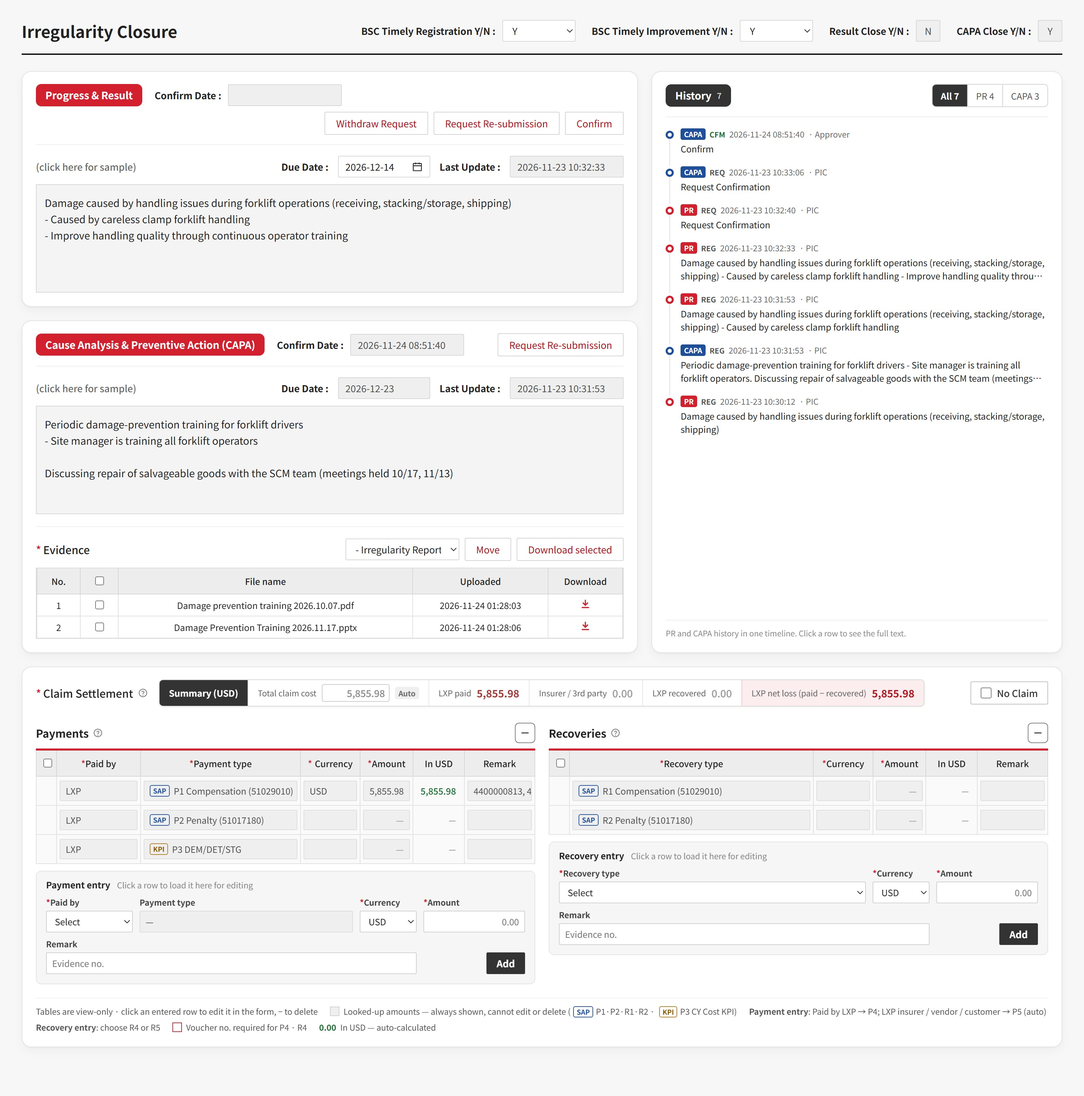
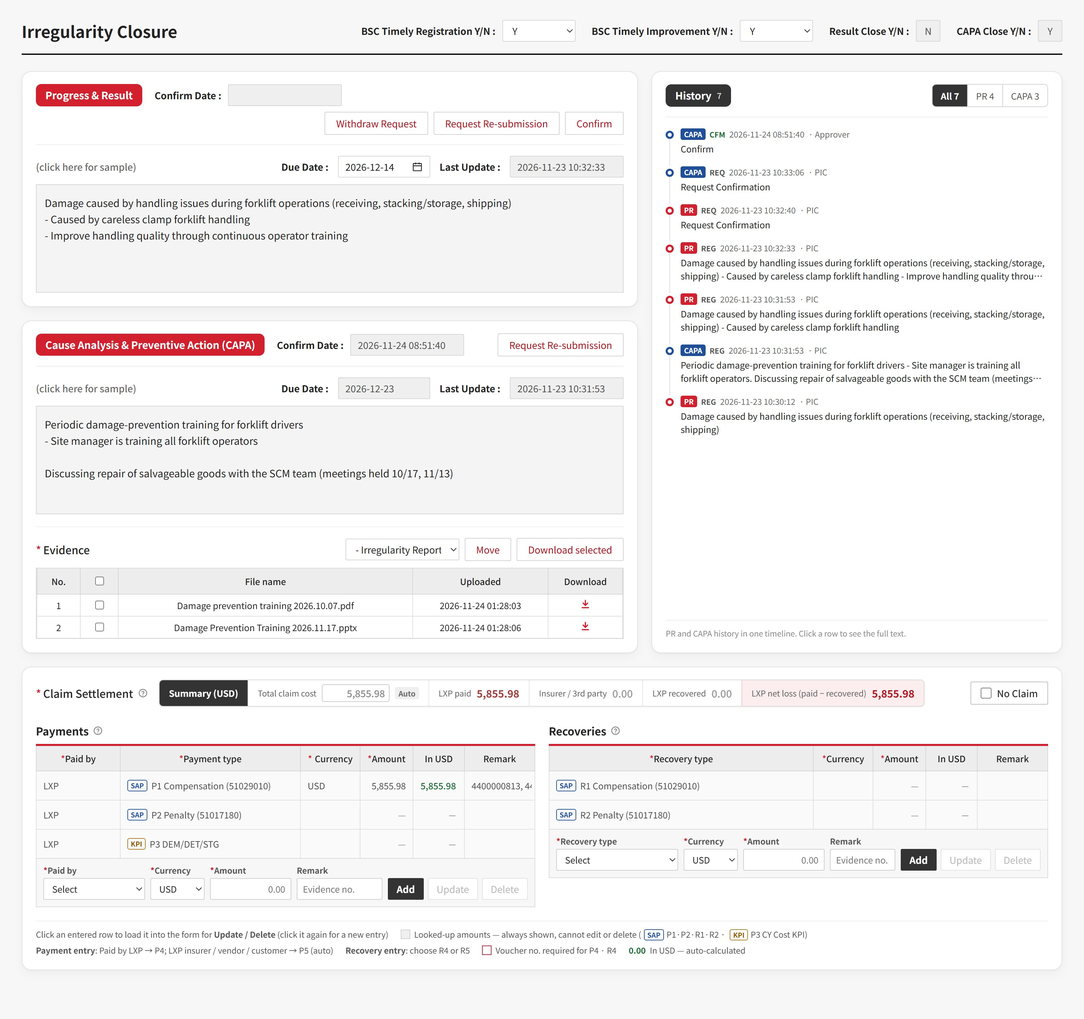
QMS sidebar mockup: one-line entry form, plain grid, select row to update/delete

diff --git a/share/qms-claim-closure-sidebar.html b/share/qms-claim-closure-sidebar.html
@@ -124,34 +124,35 @@ a{color:#B3121F}a:hover{color:#7E0C16}
 .ti.open .tx{display:block}
 .ti[hidden]{display:none}
 .sidenote{margin:10px 0 0;padding-top:10px;border-top:1px solid #EEEEEE;font-size:11.5px;color:#8A8A8A}
-.cform{margin-top:10px;background:#F6F6F6;border:1px solid #E3E3E3;border-radius:8px;padding:10px 14px 14px}
-.cf-h{display:flex;flex-wrap:wrap;align-items:baseline;gap:4px 10px;font-size:13px;margin-bottom:8px;color:#222}
-.cf-note{font-size:12px;color:#8A8A8A}.cf-mode{font-size:12px;color:#1F4E9A;font-weight:700}
-.cf-g{display:grid;gap:8px 10px;align-items:end}
-.cf-g.pay{grid-template-columns:128px minmax(0,1fr) 84px 150px}
-.cf-g.rec{grid-template-columns:minmax(0,1fr) 84px 150px}
-.cf{display:flex;flex-direction:column;gap:4px;min-width:0;font-size:12px;font-weight:700;color:#444}
+.csw .grid .rocell{border:0;background:none;height:28px;padding:0 6px}
+.cform{margin-top:-1px;background:#F7F7F7;border:1px solid #DADADA;padding:8px 10px 10px}
+.cf-g{display:grid;gap:6px 8px;align-items:end}
+.cf-g.pay{grid-template-columns:150px 80px 120px minmax(90px,1fr) auto}
+.cf-g.rec{grid-template-columns:180px 80px 120px minmax(90px,1fr) auto}
+.cf{display:flex;flex-direction:column;gap:3px;min-width:0;font-size:12px;font-weight:700;color:#555}
 .cf select,.cf input{height:32px;width:100%;border:1px solid #CFCFCF;border-radius:2px;background:#fff;font:inherit;font-size:13px;font-weight:400;color:#222;padding:0 8px;box-sizing:border-box}
 .cf input[data-f="amt"]{text-align:right;font-variant-numeric:tabular-nums}
-.cf .rocell{height:32px;font-weight:400}
 .cf input.need{border-color:#D3202F}
 .cf .bad{outline:2px solid #D3202F;outline-offset:-1px}
-.cf.wide{grid-column:1 / -2}
-.cf-b{display:flex;justify-content:flex-end;gap:6px}
-.cf-b .btn{height:32px;padding:0 14px}
+.cf-b{display:flex;gap:6px}
+.cf-b .btn{height:32px;padding:0 12px}
+.cf-b .btn:disabled{color:#BBBBBB;border-color:#E2E2E2;background:#fff;cursor:default}
 .btn.dark{background:#333;border-color:#333;color:#fff;font-weight:700}
-.cf-err{margin:8px 0 0;font-size:12px;color:#B3121F}
-.uc{height:30px;display:flex;align-items:center;padding:0 8px;font-size:13px;overflow:hidden;white-space:nowrap;text-overflow:ellipsis}
+.cf-b .btn.dark:disabled{background:#C8C8C8;border-color:#C8C8C8;color:#fff}
+.cf-err{margin:6px 0 0;font-size:12px;color:#B3121F}
+.uc{height:28px;display:flex;align-items:center;padding:0 6px;font-size:13px;overflow:hidden;white-space:nowrap;text-overflow:ellipsis}
 .uc.num{justify-content:flex-end;font-variant-numeric:tabular-nums}
-.grid tr.ur{cursor:pointer}.grid tr.ur:hover td{background:#FFF7F7}.grid tr.ur.sel td{background:#FDECEE}
-@media (max-width:640px){.cf-g.pay,.cf-g.rec{grid-template-columns:minmax(0,1fr) minmax(0,1fr)}.cf.wide,.cf-b{grid-column:1 / -1}}
+.grid tr.ur{cursor:pointer}.grid tr.ur:hover td{background:#FFF7F7}
+.grid tr.ur.sel td{background:#FDECEE}.grid tr.ur.sel td:first-child{box-shadow:inset 3px 0 0 #D3202F}
+.grid tr.ur:focus-visible{outline:2px solid #1F4E9A;outline-offset:-2px}
+@media (max-width:640px){.cf-g.pay,.cf-g.rec{grid-template-columns:minmax(0,1fr) minmax(0,1fr)}.cf-b{grid-column:1 / -1;justify-content:flex-end}}
 @media (max-width:1100px){.sbl,.flow.r64 .sbl{grid-template-columns:minmax(0,1fr)}.tl{flex:none;height:auto;min-height:0;max-height:420px}}
 
 </style>
 </head>
 <body>
 <div class="lab-bar"><b>QMS 사고 비용 정산 설계안</b><span>배치 검토용 목업 · 이력 필터만 동작</span><a href="/share/qms-claim">데이터 설계</a><a href="/share/qms-claim-screens">입력 화면 시안</a><a href="/share/qms-claim-closure">Closure 화면 개선안</a><a href="/share/qms-claim-closure-layout">좌우 배치안</a><a href="/share/qms-claim-closure-sidebar" aria-current="page">이력 사이드바안</a><a href="/share/qms-claim-closure-options">배치 제안</a><a href="#en" lang="en">English</a></div>
-<div class="part"><h2 class="big">이력 사이드바안 — 배치 제안 C</h2><p><b>사이드바 레이아웃</b>: 왼쪽 본문은 PR → CAPA → 이행 증빙, 오른쪽 사이드바는 PR · CAPA 이력을 시간순으로 모은 통합 이력 (PR / CAPA 필터). 구역마다 둥근 상자로 나누고, 본문 : 이력 폭은 7 : 3 (6 : 4로 바꿔 볼 수 있음). 이력 상자는 본문 높이에 맞춰 늘어나고 넘치면 안에서 스크롤. 입력 칸과 이력이 나란히 있지 않으니 높이를 맞출 필요가 없고, 이행 증빙이 늘어도 구조가 깨지지 않습니다. <b>Claim Settlement는 전체 폭</b>으로 빼서 지불·회수 표를 한 줄에 놓고, 맨 아래(기본)와 맨 위 중 골라 볼 수 있습니다. <b>지불·회수 표는 조회 전용</b>이고, 표 아래 입력폼(기존 Actual Loss Cost처럼 칸 입력, USD 칸 없음)으로 추가합니다. 입력한 행을 누르면 폼으로 불러와 수정, − 로 삭제. 요약 금액은 예시 환율로 다시 계산됩니다.</p>
+<div class="part"><h2 class="big">이력 사이드바안 — 배치 제안 C</h2><p><b>사이드바 레이아웃</b>: 왼쪽 본문은 PR → CAPA → 이행 증빙, 오른쪽 사이드바는 PR · CAPA 이력을 시간순으로 모은 통합 이력 (PR / CAPA 필터). 구역마다 둥근 상자로 나누고, 본문 : 이력 폭은 7 : 3 (6 : 4로 바꿔 볼 수 있음). 이력 상자는 본문 높이에 맞춰 늘어나고 넘치면 안에서 스크롤. 입력 칸과 이력이 나란히 있지 않으니 높이를 맞출 필요가 없고, 이행 증빙이 늘어도 구조가 깨지지 않습니다. <b>Claim Settlement는 전체 폭</b>으로 빼서 지불·회수 표를 한 줄에 놓고, 맨 아래(기본)와 맨 위 중 골라 볼 수 있습니다. <b>지불·회수 표는 조회 전용</b>(USD 환산은 표에서 자동 계산)이고, 표 바로 아래 한 줄 입력폼으로 추가합니다. 입력한 행을 누르면 폼에 불러오고 수정·삭제 버튼이 켜집니다 (같은 행을 다시 누르면 신규 입력). 요약 금액은 예시 환율로 다시 계산됩니다.</p>
 <div class="pos" role="group" aria-label="본문과 이력 비율" data-cls="r64"><span>본문 : 이력</span><span class="segb"><button type="button" data-on="0" aria-pressed="true">7 : 3</button><button type="button" data-on="1" aria-pressed="false">6 : 4</button></span></div><div class="pos" role="group" aria-label="Claim Settlement 위치" data-cls="cs-top"><span>Claim Settlement 위치</span><span class="segb"><button type="button" data-pos="bottom" data-on="0" aria-pressed="true">맨 아래</button><button type="button" data-pos="top" data-on="1" aria-pressed="false">맨 위</button></span></div>
 <div class="dl"><a href="/share/files/qms-claim-closure-sidebar.jpg" download><svg width="14" height="14" viewBox="0 0 24 24" fill="none" stroke="currentColor" stroke-width="2" aria-hidden="true"><path d="M12 3v12m0 0-5-5m5 5 5-5M4 19h16"/></svg>JPG (맨 아래)</a><a href="/share/files/qms-claim-closure-sidebar-top.jpg" download><svg width="14" height="14" viewBox="0 0 24 24" fill="none" stroke="currentColor" stroke-width="2" aria-hidden="true"><path d="M12 3v12m0 0-5-5m5 5 5-5M4 19h16"/></svg>JPG (맨 위)</a><a href="/share/files/qms-claim-closure-sidebar-64.jpg" download><svg width="14" height="14" viewBox="0 0 24 24" fill="none" stroke="currentColor" stroke-width="2" aria-hidden="true"><path d="M12 3v12m0 0-5-5m5 5 5-5M4 19h16"/></svg>JPG (6 : 4)</a></div></div>
 <div style="box-sizing: border-box; width: 100%; max-width: 1600px; margin: 0 auto; padding: 28px 32px 56px; font-family: 'Noto Sans KR', 'Malgun Gothic', sans-serif; color: #222; background: #F7F7F7;">
@@ -256,14 +257,12 @@ SCM팀 통한 수리 가능 제품 양품화 협의 (10/17, 11/13 협의 진행)
 </div>
 <div style="display: flex; align-items: center; gap: 6px; flex: none;">
 
-<button class="ibtn" type="button" aria-label="선택한 지불 행 삭제"><svg width="16" height="16" viewBox="0 0 24 24" fill="none" stroke="currentColor" stroke-width="2.4" stroke-linecap="round" aria-hidden="true"><path d="M5 12h14"></path></svg></button>
 </div>
 </div>
 <div style="overflow-x: auto;">
 <table class="grid" data-k="pay">
-<colgroup><col style="width: 30px;"><col style="width: 110px;"><col><col style="width: 80px;"><col style="width: 84px;"><col style="width: 84px;"><col style="width: 112px;"></colgroup>
+<colgroup><col style="width: 110px;"><col><col style="width: 80px;"><col style="width: 84px;"><col style="width: 84px;"><col style="width: 112px;"></colgroup>
 <thead><tr>
-<th><input type="checkbox" aria-label="지불 행 전체 선택"></th>
 <th><span class="req">*</span>지불주체</th>
 <th><span class="req">*</span>지불방법</th>
 <th><span style="display: inline-flex; align-items: center; gap: 4px;"><span class="req">*</span>Currency</span></th>
@@ -273,7 +272,6 @@ SCM팀 통한 수리 가능 제품 양품화 협의 (10/17, 11/13 협의 진행)
 </tr></thead>
 <tbody>
 <tr class="fx">
-<td></td>
 <td><div class="rocell">당사</div></td>
 <td><div class="rocell"><span class="chip">SAP</span>P1 손해배상금 지급 (51029010)</div></td>
 <td><div class="rocell">USD</div></td>
@@ -282,7 +280,6 @@ SCM팀 통한 수리 가능 제품 양품화 협의 (10/17, 11/13 협의 진행)
 <td><div class="rocell">4400000813, 4400000847</div></td>
 </tr>
 <tr class="fx">
-<td></td>
 <td><div class="rocell">당사</div></td>
 <td><div class="rocell"><span class="chip">SAP</span>P2 과태료 지급 (51017180)</div></td>
 <td><div class="rocell"></div></td>
@@ -291,7 +288,6 @@ SCM팀 통한 수리 가능 제품 양품화 협의 (10/17, 11/13 협의 진행)
 <td><div class="rocell"></div></td>
 </tr>
 <tr class="fx">
-<td></td>
 <td><div class="rocell">당사</div></td>
 <td><div class="rocell"><span class="chip cy">KPI</span>P3 체화료</div></td>
 <td><div class="rocell"></div></td>
@@ -302,7 +298,7 @@ SCM팀 통한 수리 가능 제품 양품화 협의 (10/17, 11/13 협의 진행)
 </tbody>
 </table>
 </div>
-<div class="cform" data-k="pay" role="group" aria-label="지불 입력"><div class="cf-h"><b>지불 입력</b><span class="cf-note">행을 누르면 여기로 불러와 수정</span><span class="cf-mode" aria-live="polite"></span></div><div class="cf-g pay"><label class="cf"><span><span class="req">*</span>지불주체</span><select data-f="party"><option value="">선택</option><option value="LXP">당사</option><option value="INS">당사 보험사</option><option value="VEN">협력사</option><option value="CUS">고객사</option></select></label><div class="cf"><span>지불방법</span><div class="rocell" data-f="type">—</div></div><label class="cf"><span><span class="req">*</span>Currency</span><select data-f="cur"><option>USD</option><option>KRW</option><option>EUR</option></select></label><label class="cf"><span><span class="req">*</span>금액</span><input data-f="amt" inputmode="decimal" placeholder="0.00"></label><label class="cf wide"><span>Remark</span><input data-f="remark" placeholder="증빙번호 등"></label><div class="cf-b"><button class="btn cf-cancel" type="button" hidden>취소</button><button class="btn dark cf-add" type="button">추가</button></div></div><p class="cf-err" role="alert" hidden></p></div>
+<div class="cform" data-k="pay" role="group" aria-label="지불 입력"><div class="cf-g pay"><label class="cf"><span><span class="req">*</span>지불주체</span><select data-f="party"><option value="">선택</option><option value="LXP">당사 (P4)</option><option value="INS">당사 보험사 (P5)</option><option value="VEN">협력사 (P5)</option><option value="CUS">고객사 (P5)</option></select></label><label class="cf"><span><span class="req">*</span>Currency</span><select data-f="cur"><option>USD</option><option>KRW</option><option>EUR</option></select></label><label class="cf"><span><span class="req">*</span>금액</span><input data-f="amt" inputmode="decimal" placeholder="0.00"></label><label class="cf"><span>Remark</span><input data-f="remark" placeholder="증빙번호 등"></label><div class="cf-b"><button class="btn dark cf-add" type="button">추가</button><button class="btn cf-upd" type="button" disabled>수정</button><button class="btn cf-del" type="button" disabled>삭제</button></div></div><p class="cf-err" role="alert" hidden></p></div>
 </div>
 
 <div style="min-width: 0;">
@@ -312,14 +308,12 @@ SCM팀 통한 수리 가능 제품 양품화 협의 (10/17, 11/13 협의 진행)
 <span class="qtip" tabindex="0" aria-label="회수내역 안내"><svg width="15" height="15" viewBox="0 0 24 24" fill="none" stroke="#8A8A8A" stroke-width="2" stroke-linecap="round" aria-hidden="true"><circle cx="12" cy="12" r="9"></circle><path d="M9.6 9.3a2.5 2.5 0 0 1 4.8 1c0 1.7-2.4 2.1-2.4 3.7"></path><path d="M12 17.2v.3"></path></svg><span class="tipbox" role="tooltip">R1·R2는 SAP에서 조회한 금액만 보여 줍니다. 그 밖의 회수는 + 로 추가합니다 (R4 · R5).</span></span>
 </div>
 <div style="display: flex; align-items: center; gap: 6px; flex: none;">
-<button class="ibtn" type="button" aria-label="선택한 회수 행 삭제"><svg width="16" height="16" viewBox="0 0 24 24" fill="none" stroke="currentColor" stroke-width="2.4" stroke-linecap="round" aria-hidden="true"><path d="M5 12h14"></path></svg></button>
 </div>
 </div>
 <div style="overflow-x: auto;">
 <table class="grid" data-k="rec">
-<colgroup><col style="width: 30px;"><col><col style="width: 80px;"><col style="width: 84px;"><col style="width: 84px;"><col style="width: 112px;"></colgroup>
+<colgroup><col><col style="width: 80px;"><col style="width: 84px;"><col style="width: 84px;"><col style="width: 112px;"></colgroup>
 <thead><tr>
-<th><input type="checkbox" aria-label="회수 행 전체 선택"></th>
 <th><span class="req">*</span>회수방법</th>
 <th><span class="req">*</span>Currency</th>
 <th><span class="req">*</span>금액</th>
@@ -328,7 +322,6 @@ SCM팀 통한 수리 가능 제품 양품화 협의 (10/17, 11/13 협의 진행)
 </tr></thead>
 <tbody>
 <tr class="fx">
-<td></td>
 <td><div class="rocell"><span class="chip">SAP</span>R1 손해배상금 환입 (51029010)</div></td>
 <td><div class="rocell"></div></td>
 <td><div class="rocell num nil">—</div></td>
@@ -336,7 +329,6 @@ SCM팀 통한 수리 가능 제품 양품화 협의 (10/17, 11/13 협의 진행)
 <td><div class="rocell"></div></td>
 </tr>
 <tr class="fx">
-<td></td>
 <td><div class="rocell"><span class="chip">SAP</span>R2 과태료 환입 (51017180)</div></td>
 <td><div class="rocell"></div></td>
 <td><div class="rocell num nil">—</div></td>
@@ -346,11 +338,11 @@ SCM팀 통한 수리 가능 제품 양품화 협의 (10/17, 11/13 협의 진행)
 </tbody>
 </table>
 </div>
-<div class="cform" data-k="rec" role="group" aria-label="회수 입력"><div class="cf-h"><b>회수 입력</b><span class="cf-note">행을 누르면 여기로 불러와 수정</span><span class="cf-mode" aria-live="polite"></span></div><div class="cf-g rec"><label class="cf"><span><span class="req">*</span>회수방법</span><select data-f="type"><option value="">선택</option><option value="R4">R4 Selling / Buying</option><option value="R5">R5 기타</option></select></label><label class="cf"><span><span class="req">*</span>Currency</span><select data-f="cur"><option>USD</option><option>KRW</option><option>EUR</option></select></label><label class="cf"><span><span class="req">*</span>금액</span><input data-f="amt" inputmode="decimal" placeholder="0.00"></label><label class="cf wide"><span>Remark</span><input data-f="remark" placeholder="증빙번호 등"></label><div class="cf-b"><button class="btn cf-cancel" type="button" hidden>취소</button><button class="btn dark cf-add" type="button">추가</button></div></div><p class="cf-err" role="alert" hidden></p></div>
+<div class="cform" data-k="rec" role="group" aria-label="회수 입력"><div class="cf-g rec"><label class="cf"><span><span class="req">*</span>회수방법</span><select data-f="type"><option value="">선택</option><option value="R4">R4 Selling / Buying</option><option value="R5">R5 기타</option></select></label><label class="cf"><span><span class="req">*</span>Currency</span><select data-f="cur"><option>USD</option><option>KRW</option><option>EUR</option></select></label><label class="cf"><span><span class="req">*</span>금액</span><input data-f="amt" inputmode="decimal" placeholder="0.00"></label><label class="cf"><span>Remark</span><input data-f="remark" placeholder="증빙번호 등"></label><div class="cf-b"><button class="btn dark cf-add" type="button">추가</button><button class="btn cf-upd" type="button" disabled>수정</button><button class="btn cf-del" type="button" disabled>삭제</button></div></div><p class="cf-err" role="alert" hidden></p></div>
 </div>
 
 <div class="legend" style="grid-column: 1 / -1; margin-top: 0; padding-top: 10px; border-top: 1px solid #EEEEEE;">
-<span>표는 조회 전용 · 입력한 행을 누르면 입력폼에서 수정, − 로 삭제</span>
+<span>입력한 행을 누르면 입력폼에 불러와 <b>수정·삭제</b> (같은 행을 다시 누르면 신규 입력)</span>
 <span><span class="sw" style="background: #EFEFEF;"></span>조회 금액 — 항상 표시, 수정·삭제 불가 (<span class="chip" style="margin: 0 4px;">SAP</span>P1·P2·R1·R2 · <span class="chip cy" style="margin: 0 4px;">KPI</span>P3 CY Cost KPI)</span>
 <span><b>지불 입력</b>: 지불주체가 당사면 P4, 당사 보험사·협력사·고객사면 P5 자동</span>
 <span><b>회수 입력</b>: R4 또는 R5 선택</span>
@@ -464,14 +456,12 @@ Summary (USD)</div>
 </div>
 <div style="display: flex; align-items: center; gap: 6px; flex: none;">
 
-<button class="ibtn" type="button" aria-label="Delete selected payment rows"><svg width="16" height="16" viewBox="0 0 24 24" fill="none" stroke="currentColor" stroke-width="2.4" stroke-linecap="round" aria-hidden="true"><path d="M5 12h14"></path></svg></button>
 </div>
 </div>
 <div style="overflow-x: auto;">
 <table class="grid" data-k="pay">
-<colgroup><col style="width: 30px;"><col style="width: 124px;"><col><col style="width: 88px;"><col style="width: 78px;"><col style="width: 76px;"><col style="width: 104px;"></colgroup>
+<colgroup><col style="width: 124px;"><col><col style="width: 88px;"><col style="width: 78px;"><col style="width: 76px;"><col style="width: 104px;"></colgroup>
 <thead><tr>
-<th><input type="checkbox" aria-label="Select all payment rows"></th>
 <th><span class="req">*</span>Paid by</th>
 <th><span class="req">*</span>Payment type</th>
 <th><span style="display: inline-flex; align-items: center; gap: 4px;"><span class="req">*</span>Currency</span></th>
@@ -481,7 +471,6 @@ Summary (USD)</div>
 </tr></thead>
 <tbody>
 <tr class="fx">
-<td></td>
 <td><div class="rocell">LXP</div></td>
 <td><div class="rocell"><span class="chip">SAP</span>P1 Compensation (51029010)</div></td>
 <td><div class="rocell">USD</div></td>
@@ -490,7 +479,6 @@ Summary (USD)</div>
 <td><div class="rocell">4400000813, 4400000847</div></td>
 </tr>
 <tr class="fx">
-<td></td>
 <td><div class="rocell">LXP</div></td>
 <td><div class="rocell"><span class="chip">SAP</span>P2 Penalty (51017180)</div></td>
 <td><div class="rocell"></div></td>
@@ -499,7 +487,6 @@ Summary (USD)</div>
 <td><div class="rocell"></div></td>
 </tr>
 <tr class="fx">
-<td></td>
 <td><div class="rocell">LXP</div></td>
 <td><div class="rocell"><span class="chip cy">KPI</span>P3 DEM/DET/STG</div></td>
 <td><div class="rocell"></div></td>
@@ -510,7 +497,7 @@ Summary (USD)</div>
 </tbody>
 </table>
 </div>
-<div class="cform" data-k="pay" role="group" aria-label="Payment entry"><div class="cf-h"><b>Payment entry</b><span class="cf-note">Click a row to load it here for editing</span><span class="cf-mode" aria-live="polite"></span></div><div class="cf-g pay"><label class="cf"><span><span class="req">*</span>Paid by</span><select data-f="party"><option value="">Select</option><option value="LXP">LXP</option><option value="INS">LXP insurer</option><option value="VEN">Vendor</option><option value="CUS">Customer</option></select></label><div class="cf"><span>Payment type</span><div class="rocell" data-f="type">—</div></div><label class="cf"><span><span class="req">*</span>Currency</span><select data-f="cur"><option>USD</option><option>KRW</option><option>EUR</option></select></label><label class="cf"><span><span class="req">*</span>Amount</span><input data-f="amt" inputmode="decimal" placeholder="0.00"></label><label class="cf wide"><span>Remark</span><input data-f="remark" placeholder="Evidence no."></label><div class="cf-b"><button class="btn cf-cancel" type="button" hidden>Cancel</button><button class="btn dark cf-add" type="button">Add</button></div></div><p class="cf-err" role="alert" hidden></p></div>
+<div class="cform" data-k="pay" role="group" aria-label="Payment entry"><div class="cf-g pay"><label class="cf"><span><span class="req">*</span>Paid by</span><select data-f="party"><option value="">Select</option><option value="LXP">LXP (P4)</option><option value="INS">LXP insurer (P5)</option><option value="VEN">Vendor (P5)</option><option value="CUS">Customer (P5)</option></select></label><label class="cf"><span><span class="req">*</span>Currency</span><select data-f="cur"><option>USD</option><option>KRW</option><option>EUR</option></select></label><label class="cf"><span><span class="req">*</span>Amount</span><input data-f="amt" inputmode="decimal" placeholder="0.00"></label><label class="cf"><span>Remark</span><input data-f="remark" placeholder="Evidence no."></label><div class="cf-b"><button class="btn dark cf-add" type="button">Add</button><button class="btn cf-upd" type="button" disabled>Update</button><button class="btn cf-del" type="button" disabled>Delete</button></div></div><p class="cf-err" role="alert" hidden></p></div>
 </div>
 
 <div style="min-width: 0;">
@@ -520,14 +507,12 @@ Summary (USD)</div>
 <span class="qtip" tabindex="0" aria-label="About recoveries"><svg width="15" height="15" viewBox="0 0 24 24" fill="none" stroke="#8A8A8A" stroke-width="2" stroke-linecap="round" aria-hidden="true"><circle cx="12" cy="12" r="9"></circle><path d="M9.6 9.3a2.5 2.5 0 0 1 4.8 1c0 1.7-2.4 2.1-2.4 3.7"></path><path d="M12 17.2v.3"></path></svg><span class="tipbox" role="tooltip">R1–R2 show SAP amounts only. Add other recoveries with + (R4 · R5).</span></span>
 </div>
 <div style="display: flex; align-items: center; gap: 6px; flex: none;">
-<button class="ibtn" type="button" aria-label="Delete selected recovery rows"><svg width="16" height="16" viewBox="0 0 24 24" fill="none" stroke="currentColor" stroke-width="2.4" stroke-linecap="round" aria-hidden="true"><path d="M5 12h14"></path></svg></button>
 </div>
 </div>
 <div style="overflow-x: auto;">
 <table class="grid" data-k="rec">
-<colgroup><col style="width: 30px;"><col><col style="width: 88px;"><col style="width: 78px;"><col style="width: 76px;"><col style="width: 104px;"></colgroup>
+<colgroup><col><col style="width: 88px;"><col style="width: 78px;"><col style="width: 76px;"><col style="width: 104px;"></colgroup>
 <thead><tr>
-<th><input type="checkbox" aria-label="Select all recovery rows"></th>
 <th><span class="req">*</span>Recovery type</th>
 <th><span class="req">*</span>Currency</th>
 <th><span class="req">*</span>Amount</th>
@@ -536,7 +521,6 @@ Summary (USD)</div>
 </tr></thead>
 <tbody>
 <tr class="fx">
-<td></td>
 <td><div class="rocell"><span class="chip">SAP</span>R1 Compensation (51029010)</div></td>
 <td><div class="rocell"></div></td>
 <td><div class="rocell num nil">—</div></td>
@@ -544,7 +528,6 @@ Summary (USD)</div>
 <td><div class="rocell"></div></td>
 </tr>
 <tr class="fx">
-<td></td>
 <td><div class="rocell"><span class="chip">SAP</span>R2 Penalty (51017180)</div></td>
 <td><div class="rocell"></div></td>
 <td><div class="rocell num nil">—</div></td>
@@ -554,11 +537,11 @@ Summary (USD)</div>
 </tbody>
 </table>
 </div>
-<div class="cform" data-k="rec" role="group" aria-label="Recovery entry"><div class="cf-h"><b>Recovery entry</b><span class="cf-note">Click a row to load it here for editing</span><span class="cf-mode" aria-live="polite"></span></div><div class="cf-g rec"><label class="cf"><span><span class="req">*</span>Recovery type</span><select data-f="type"><option value="">Select</option><option value="R4">R4 Selling / Buying</option><option value="R5">R5 Other</option></select></label><label class="cf"><span><span class="req">*</span>Currency</span><select data-f="cur"><option>USD</option><option>KRW</option><option>EUR</option></select></label><label class="cf"><span><span class="req">*</span>Amount</span><input data-f="amt" inputmode="decimal" placeholder="0.00"></label><label class="cf wide"><span>Remark</span><input data-f="remark" placeholder="Evidence no."></label><div class="cf-b"><button class="btn cf-cancel" type="button" hidden>Cancel</button><button class="btn dark cf-add" type="button">Add</button></div></div><p class="cf-err" role="alert" hidden></p></div>
+<div class="cform" data-k="rec" role="group" aria-label="Recovery entry"><div class="cf-g rec"><label class="cf"><span><span class="req">*</span>Recovery type</span><select data-f="type"><option value="">Select</option><option value="R4">R4 Selling / Buying</option><option value="R5">R5 Other</option></select></label><label class="cf"><span><span class="req">*</span>Currency</span><select data-f="cur"><option>USD</option><option>KRW</option><option>EUR</option></select></label><label class="cf"><span><span class="req">*</span>Amount</span><input data-f="amt" inputmode="decimal" placeholder="0.00"></label><label class="cf"><span>Remark</span><input data-f="remark" placeholder="Evidence no."></label><div class="cf-b"><button class="btn dark cf-add" type="button">Add</button><button class="btn cf-upd" type="button" disabled>Update</button><button class="btn cf-del" type="button" disabled>Delete</button></div></div><p class="cf-err" role="alert" hidden></p></div>
 </div>
 
 <div class="legend" style="grid-column: 1 / -1; margin-top: 0; padding-top: 10px; border-top: 1px solid #EEEEEE;">
-<span>Tables are view-only · click an entered row to edit it in the form, − to delete</span>
+<span>Click an entered row to load it into the form for <b>Update / Delete</b> (click it again for a new entry)</span>
 <span><span class="sw" style="background: #EFEFEF;"></span>Looked-up amounts — always shown, cannot edit or delete (<span class="chip" style="margin: 0 4px;">SAP</span>P1·P2·R1·R2 · <span class="chip cy" style="margin: 0 4px;">KPI</span>P3 CY Cost KPI)</span>
 <span><b>Payment entry</b>: Paid by LXP → P4; LXP insurer / vendor / customer → P5 (auto)</span>
 <span><b>Recovery entry</b>: choose R4 or R5</span>
@@ -586,11 +569,9 @@ Summary (USD)</div>
   var TX = {
     ko: { parties: { LXP: '당사', INS: '당사 보험사', VEN: '협력사', CUS: '고객사' },
           types: { P4: 'P4 Selling / Buying', P5: 'P5 보험사·제3자 지불', R4: 'R4 Selling / Buying', R5: 'R5 기타' },
-          add: '추가', update: '수정', editing: function (n) { return n + '번 행 수정 중'; }, sel: '행 선택',
           err: '빨간 칸을 채우세요.', voucher: 'P4 · R4는 Remark에 전표번호가 필요합니다.', ph: '증빙번호 등', vph: '전표번호 (필수)' },
     en: { parties: { LXP: 'LXP', INS: 'LXP insurer', VEN: 'Vendor', CUS: 'Customer' },
           types: { P4: 'P4 Selling / Buying', P5: 'P5 Paid by insurer / 3rd party', R4: 'R4 Selling / Buying', R5: 'R5 Other' },
-          add: 'Add', update: 'Update', editing: function (n) { return 'Editing row ' + n; }, sel: 'Select row',
           err: 'Fill in the red fields.', voucher: 'P4 · R4 need a voucher no. in Remark.', ph: 'Evidence no.', vph: 'Voucher no. (required)' }
   };
   function fmt(n) { return Number(n).toLocaleString('en-US', { minimumFractionDigits: 2, maximumFractionDigits: 2 }); }
@@ -611,36 +592,19 @@ Summary (USD)</div>
       var t = cs.querySelector('.totin'); if (t && t.classList.contains('isauto')) t.value = fmt(paid + ins);
     }
     cs.querySelectorAll('.cform').forEach(function (f) {
-      var k = f.dataset.k, table = cs.querySelector('table[data-k="' + k + '"]'), tb = table.tBodies[0];
+      var k = f.dataset.k, tb = cs.querySelector('table[data-k="' + k + '"]').tBodies[0];
       function q(n) { return f.querySelector('[data-f="' + n + '"]'); }
       var party = q('party'), type = q('type'), cur = q('cur'), amt = q('amt'), remark = q('remark');
-      var add = f.querySelector('.cf-add'), cancel = f.querySelector('.cf-cancel'), err = f.querySelector('.cf-err'), mode = f.querySelector('.cf-mode');
-      var editing = null;
+      var add = f.querySelector('.cf-add'), upd = f.querySelector('.cf-upd'), del = f.querySelector('.cf-del'), err = f.querySelector('.cf-err');
+      var sel = null;
       function typeVal() { return party ? (party.value ? (party.value === 'LXP' ? 'P4' : 'P5') : '') : type.value; }
       function needV() { var t = typeVal(); return t === 'P4' || t === 'R4'; }
-      function sync() {
-        if (party) type.textContent = typeVal() ? L.types[typeVal()] : '—';
-        remark.placeholder = needV() ? L.vph : L.ph; remark.classList.toggle('need', needV());
-      }
+      function sync() { remark.placeholder = needV() ? L.vph : L.ph; remark.classList.toggle('need', needV()); }
+      function state() { add.disabled = !!sel; upd.disabled = del.disabled = !sel; }
       function clear() { f.querySelectorAll('.bad').forEach(function (e) { e.classList.remove('bad'); }); err.hidden = true; }
-      function reset() {
-        if (editing) editing.classList.remove('sel');
-        editing = null;
-        if (party) party.value = ''; else type.value = '';
-        cur.value = 'USD'; amt.value = ''; remark.value = '';
-        add.textContent = L.add; cancel.hidden = true; mode.textContent = ''; clear(); sync();
-      }
-      function cells(r) {
-        var h = '<td style="text-align: center;"><input type="checkbox" aria-label="' + L.sel + '"></td>';
-        if (party) h += '<td><div class="uc">' + esc(L.parties[r.party]) + '</div></td>';
-        return h + '<td><div class="uc">' + esc(L.types[r.type]) + '</div></td><td><div class="uc">' + r.cur + '</div></td>' +
-          '<td><div class="uc num">' + fmt(r.amt) + '</div></td><td><div class="usd">' + fmt(r.usd) + '</div></td>' +
-          '<td><div class="uc" title="' + esc(r.remark) + '">' + esc(r.remark) + '</div></td>';
-      }
-      f.addEventListener('change', function (e) { e.target.classList.remove('bad'); sync(); });
-      f.addEventListener('input', function (e) { e.target.classList.remove('bad'); });
-      cancel.addEventListener('click', reset);
-      add.addEventListener('click', function () {
+      function blank() { (party || type).value = ''; cur.value = 'USD'; amt.value = ''; remark.value = ''; clear(); sync(); }
+      function unselect() { if (sel) sel.classList.remove('sel'); sel = null; state(); }
+      function read() {
         clear();
         var t = typeVal(), a = num(amt.value), bad = [], vmiss = needV() && !remark.value.trim();
         if (!t) bad.push(party || type);
@@ -648,34 +612,44 @@ Summary (USD)</div>
         if (vmiss) bad.push(remark);
         if (bad.length) {
           bad.forEach(function (e) { e.classList.add('bad'); });
-          err.textContent = L.err + (vmiss ? ' ' + L.voucher : ''); err.hidden = false; bad[0].focus(); return;
+          err.textContent = L.err + (vmiss ? ' ' + L.voucher : ''); err.hidden = false; bad[0].focus(); return null;
         }
-        var r = { party: party ? party.value : '', type: t, cur: cur.value, amt: a, usd: a * FX[cur.value], remark: remark.value.trim() };
-        var tr = editing || document.createElement('tr');
-        tr.className = 'ur'; tr.innerHTML = cells(r);
+        return { party: party ? party.value : '', type: t, cur: cur.value, amt: a, usd: a * FX[cur.value], remark: remark.value.trim() };
+      }
+      function fill(tr, r) {
+        tr.className = 'ur'; tr.tabIndex = 0;
+        tr.innerHTML = (party ? '<td><div class="uc">' + esc(L.parties[r.party]) + '</div></td>' : '') +
+          '<td><div class="uc">' + esc(L.types[r.type]) + '</div></td><td><div class="uc">' + r.cur + '</div></td>' +
+          '<td><div class="uc num">' + fmt(r.amt) + '</div></td><td><div class="usd">' + fmt(r.usd) + '</div></td>' +
+          '<td><div class="uc" title="' + esc(r.remark) + '">' + esc(r.remark) + '</div></td>';
         ['party', 'type', 'cur', 'amt', 'usd', 'remark'].forEach(function (x) { tr.dataset[x] = r[x]; });
-        if (!editing) tb.appendChild(tr);
-        reset(); recalc();
-      });
-      tb.addEventListener('click', function (e) {
-        var tr = e.target.closest('tr.ur'); if (!tr || e.target.closest('input')) return;
-        reset(); editing = tr; tr.classList.add('sel');
-        if (party) party.value = tr.dataset.party; else type.value = tr.dataset.type;
+      }
+      function pick(tr) {
+        if (tr === sel) { unselect(); blank(); return; }
+        unselect(); sel = tr; tr.classList.add('sel');
+        (party || type).value = party ? tr.dataset.party : tr.dataset.type;
         cur.value = tr.dataset.cur; amt.value = fmt(+tr.dataset.amt); remark.value = tr.dataset.remark;
-        add.textContent = L.update; cancel.hidden = false; mode.textContent = L.editing([].indexOf.call(tb.rows, tr) + 1); sync();
+        clear(); sync(); state();
+      }
+      f.addEventListener('change', function (e) { e.target.classList.remove('bad'); sync(); });
+      f.addEventListener('input', function (e) { e.target.classList.remove('bad'); });
+      f.addEventListener('keydown', function (e) { if (e.key === 'Escape') { unselect(); blank(); } });
+      add.addEventListener('click', function () {
+        var r = read(); if (!r) return;
+        var tr = document.createElement('tr'); fill(tr, r); tb.appendChild(tr); blank(); recalc();
       });
-      var del = f.parentElement.querySelector('.ibtn');
-      if (del) del.addEventListener('click', function () {
-        tb.querySelectorAll('tr.ur').forEach(function (tr) {
-          if (tr.querySelector('input[type="checkbox"]').checked) { if (tr === editing) reset(); tr.remove(); }
-        });
-        recalc();
+      upd.addEventListener('click', function () {
+        if (!sel) return; var r = read(); if (!r) return;
+        fill(sel, r); sel = null; state(); blank(); recalc();
       });
-      var all = table.tHead && table.tHead.querySelector('input[type="checkbox"]');
-      if (all) all.addEventListener('change', function () {
-        tb.querySelectorAll('tr.ur input[type="checkbox"]').forEach(function (c) { c.checked = all.checked; });
+      del.addEventListener('click', function () {
+        if (!sel) return; sel.remove(); sel = null; state(); blank(); recalc();
       });
-      sync();
+      tb.addEventListener('click', function (e) { var tr = e.target.closest('tr.ur'); if (tr) pick(tr); });
+      tb.addEventListener('keydown', function (e) {
+        var tr = e.target.closest('tr.ur'); if (tr && (e.key === 'Enter' || e.key === ' ')) { e.preventDefault(); pick(tr); }
+      });
+      state(); sync();
     });
   });
   document.querySelectorAll('.pos').forEach(function (g) {
